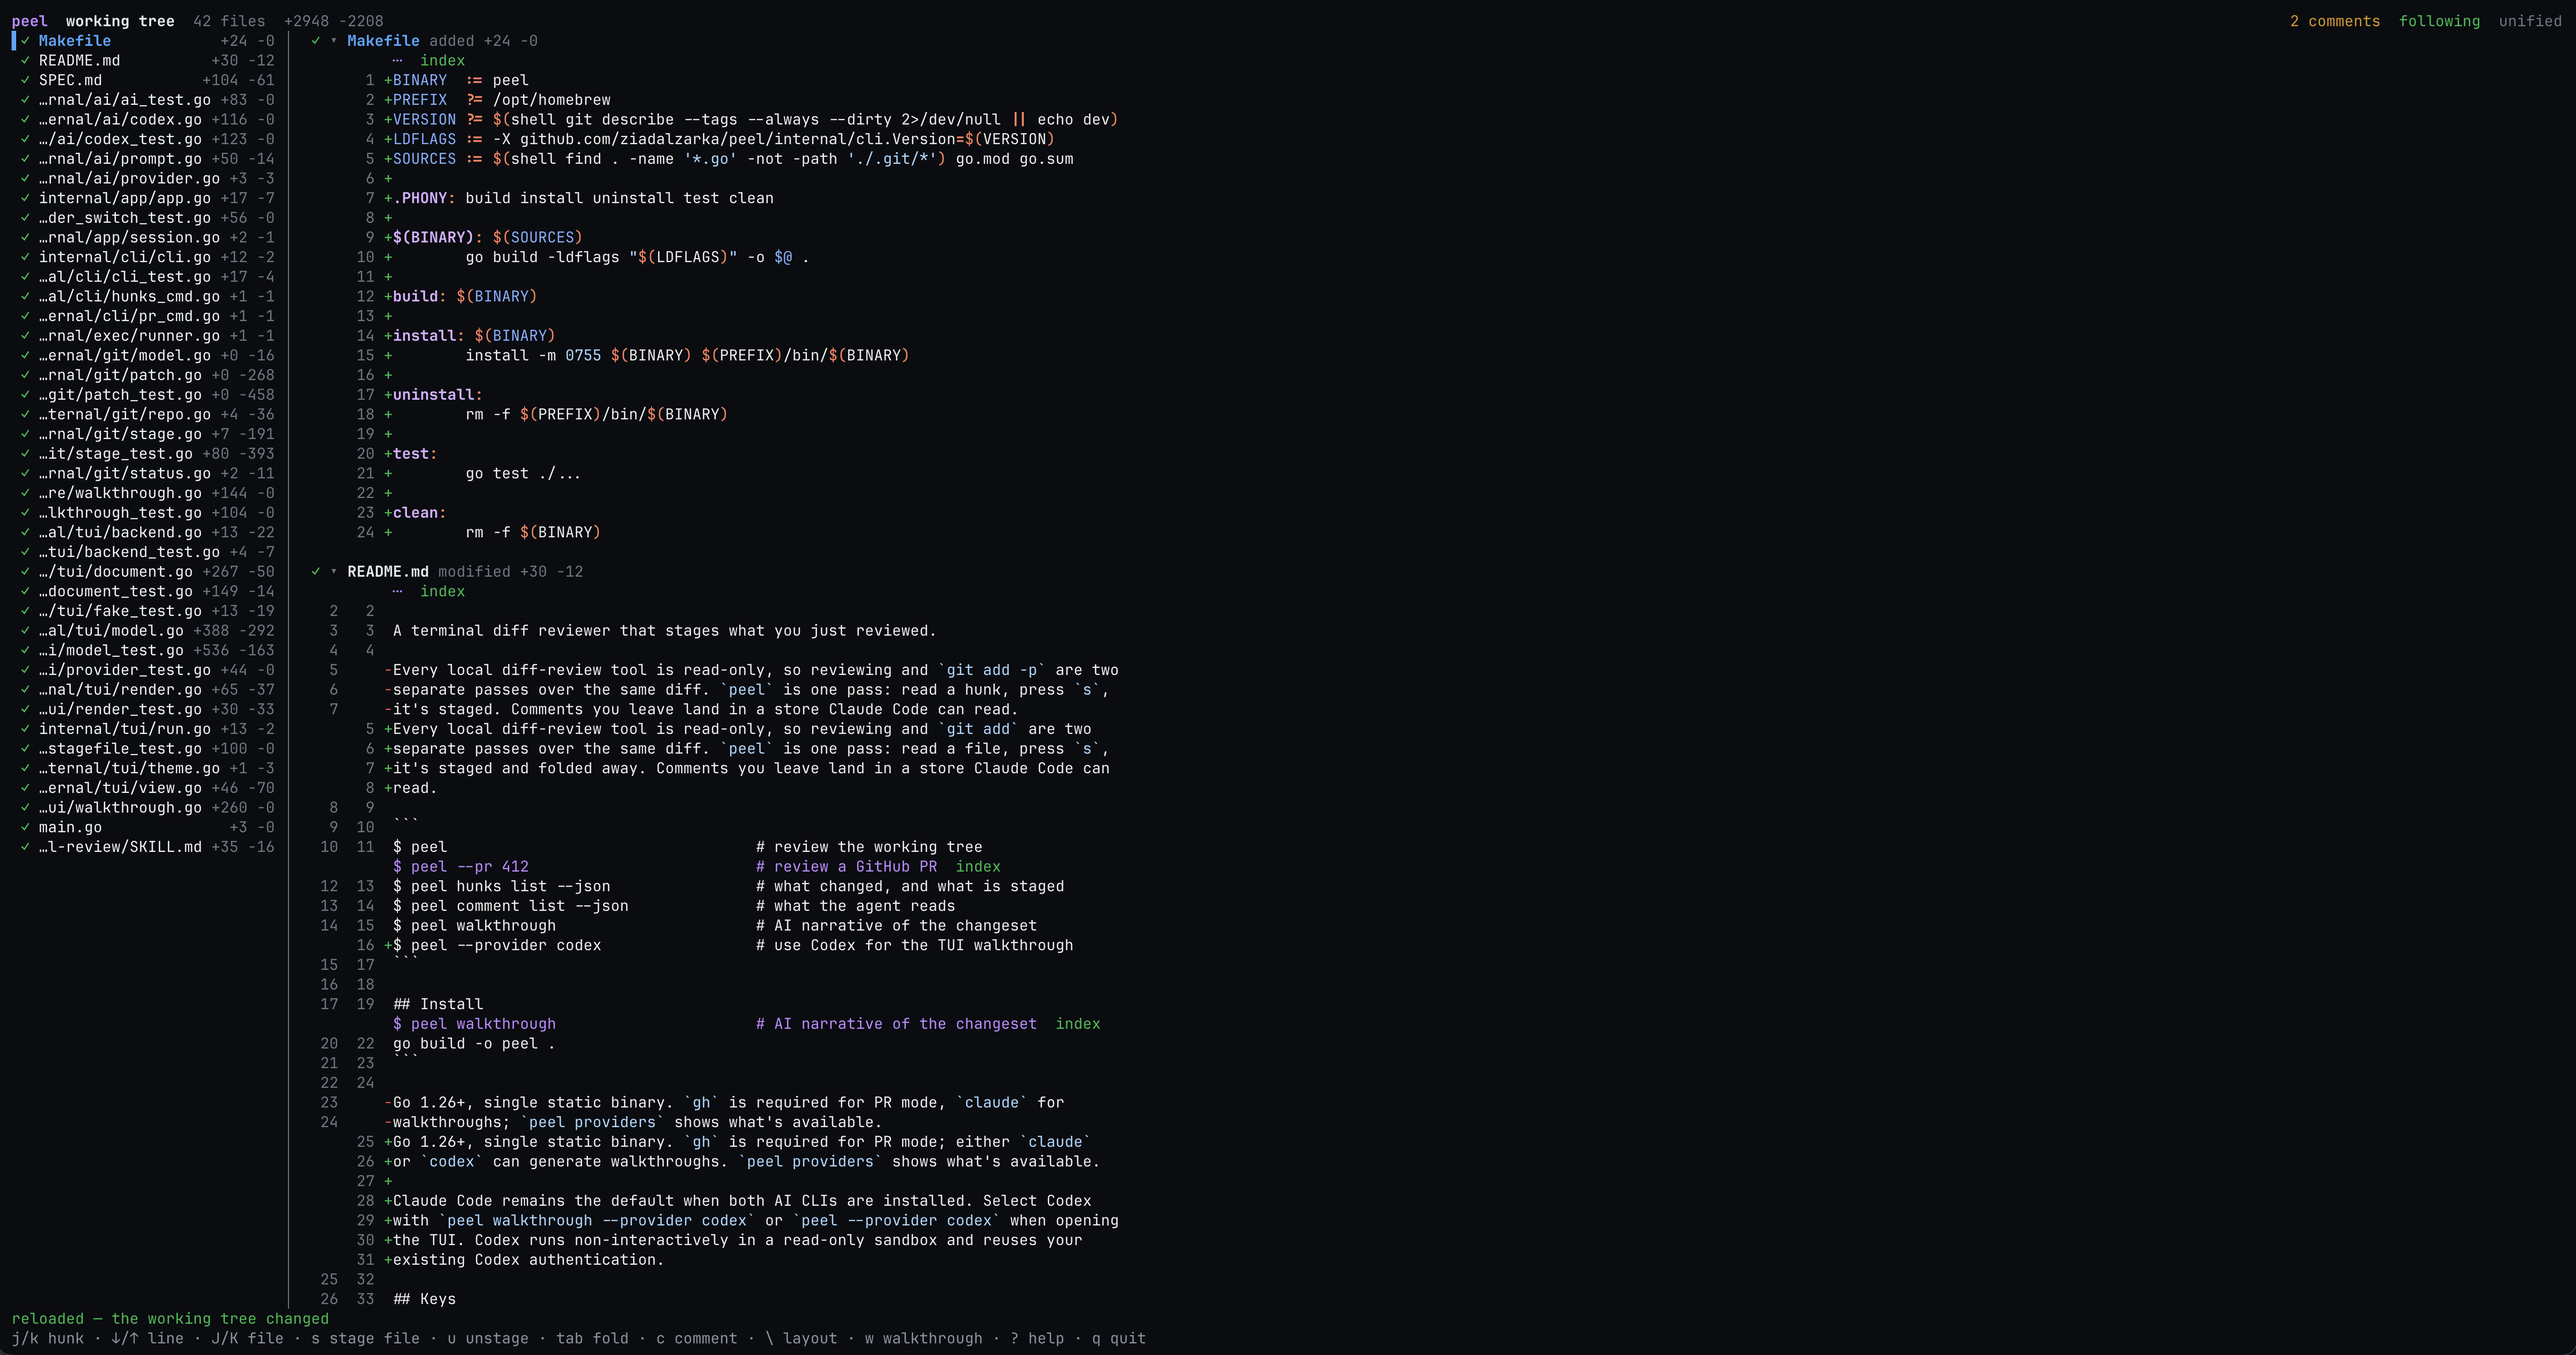
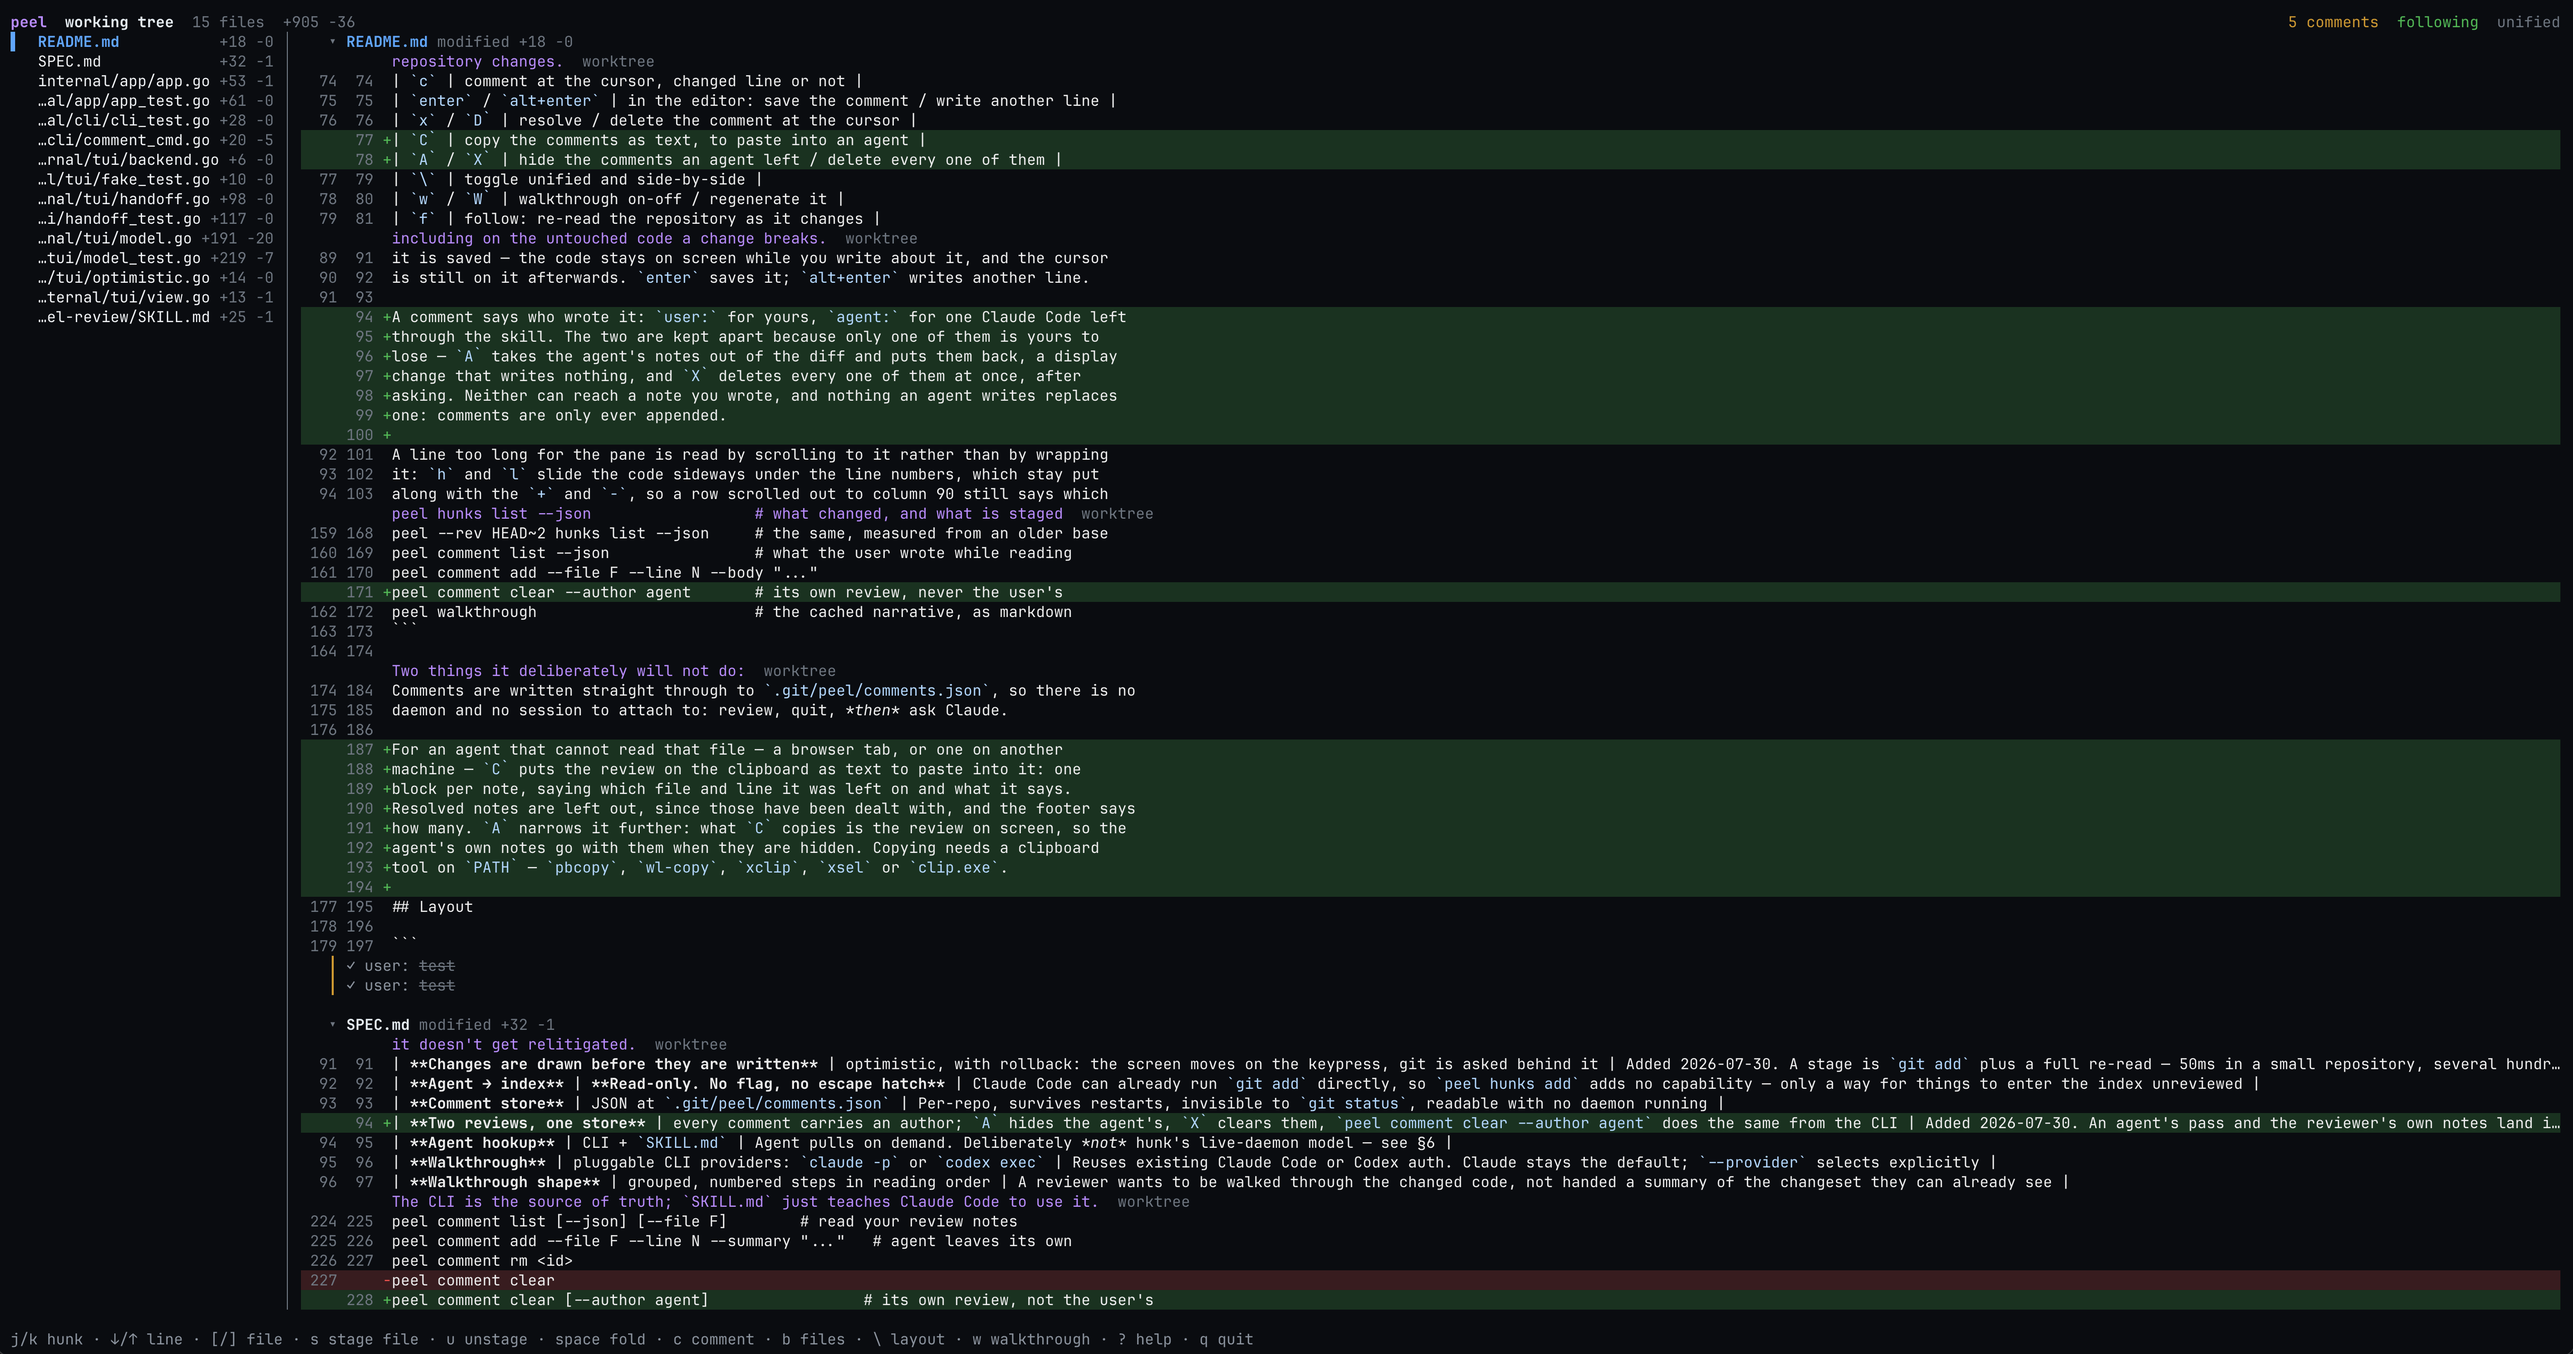
Say what peel does before explaining why
The opening argued its case for three paragraphs before showing a key. It now
leads with what the tool does — staging, inline comments, the agent store, the
walkthrough — and leaves the reasoning to the sections below and to SPEC.md.

The screenshot was stale: its footer still showed J/K for files and tab for
fold. Replaced with a current window, and the inline comment editor now has a
shot of its own next to the paragraph describing it, since drawing the editor
into the diff is hard to picture from prose.

Claude-Session: https://claude.ai/code/session_01DsPEH7vmppLH8gq3eG2zGc

diff --git a/README.md b/README.md
@@ -8,13 +8,26 @@ whole thing again in the terminal, re-deciding what you decided five minutes ago
 
 `peel` is one pass. Read a file, press `s`, and it is staged, folded away, and the
 next file is in front of you — what is left open is what is left to review.
-Comments you leave land in a store Claude Code can read, so "address my review
-comments" needs no copy-paste.
 
 ![peel reviewing its own working tree](docs/screenshots/review.png)
 
 The file list on the left is the review queue and a `✓` marks a staged file. The
 footer is the whole keymap.
+
+- **Staging is the review.** `s` stages a file and moves you to the next one still
+  open, so a pass is `s` after `s`. Whole files only — no patch generation, so
+  nothing here can write the wrong lines into your index.
+- **Comment where the code is.** `c` anywhere — changed line or not — opens the
+  editor inline, in the diff, at the spot the note will sit.
+- **Notes an agent can read.** Comments go to `.git/peel/comments.json`, which
+  Claude Code reads through the bundled skill, so "address my review comments"
+  needs no copy-paste. `C` copies them as text for an agent that cannot.
+- **A walkthrough in the diff.** `w` reorders the diff into the steps an AI
+  narrative reads it in, each explanation above the code it covers.
+- **It keeps up.** Follow mode re-reads the repository as it changes, and the
+  screen moves on the keypress rather than waiting for git.
+- **Read-only bases.** `--rev` reviews further back than HEAD, `--pr` reviews a
+  GitHub pull request.
 
 ## Install
 
@@ -87,9 +100,13 @@ and every line of a diff body, changed or not. Nothing to enter first: `s`
 anywhere inside a file stages that file, `c` anywhere leaves a note there,
 including on the untouched code a change breaks.
 
+### Comments
+
 `c` opens the editor inline, in the diff, exactly where the comment will sit once
 it is saved — the code stays on screen while you write about it, and the cursor
 is still on it afterwards. `enter` saves it; `alt+enter` writes another line.
+
+![writing a comment inline, in the diff](docs/screenshots/comment.png)
 
 A comment says who wrote it: `user:` for yours, `agent:` for one Claude Code left
 through the skill. The two are kept apart because only one of them is yours to
@@ -98,36 +115,31 @@ change that writes nothing, and `X` deletes every one of them at once, after
 asking. Neither can reach a note you wrote, and nothing an agent writes replaces
 one: comments are only ever appended.
 
+### Long lines and the mouse
+
 A line too long for the pane is read by scrolling to it rather than by wrapping
 it: `h` and `l` slide the code sideways under the line numbers, which stay put
-along with the `+` and `-`, so a row scrolled out to column 90 still says which
-line it is and whether it was added. `$` goes out to the end of the longest line
-in the diff and `0` comes back. The header names the column while you are away
-from the first one.
+along with the `+` and `-`. `$` goes out to the end of the longest line and `0`
+comes back; the header names the column while you are away from the first one.
 
-The mouse works too. The wheel scrolls whichever pane it is over and drags the
-cursor along, so the cursor never addresses a row that has left the screen. A
-horizontal wheel — a two-finger swipe, or shift and the wheel — slides the code,
-in terminals that report one: Ghostty, kitty, iTerm2, WezTerm and Alacritty all
-do. Where yours does not, or swallows the swipe for its own scrollback, `h` and
-`l` do the same thing.
+The wheel scrolls whichever pane it is over and drags the cursor along, so the
+cursor never addresses a row that has left the screen. A horizontal wheel — a
+two-finger swipe, or shift and the wheel — slides the code, in terminals that
+report one: Ghostty, kitty, iTerm2, WezTerm and Alacritty all do. Where yours
+does not, `h` and `l` do the same thing.
 
 ### Staging is whole-file
 
 A file is the unit a review decision is actually made in, so that is the unit
-peel stages: `git add` and `git restore --staged`, one path at a time. No patch
-generation, so none of `git add -p`'s failure modes — nothing here can write the
-wrong lines into your index. If you want to split a file, `git add -p` already
-does that well.
+peel stages: `git add` and `git restore --staged`, one path at a time. If you
+want to split a file, `git add -p` already does that well.
 
-Staging collapses the file and moves the cursor to the next file still to review,
-so a pass is `s` after `s` and never a jump back to find where you were. Files
-you have already staged or folded are passed over on the way, since they have
-been dealt with; only when nothing below is still open does the cursor stay on
-what you just staged. The fold
-is display only: `space` reads a staged file back without touching the index, and a
-stage that fails leaves the file open, and the cursor on it, because it still has
-to be dealt with.
+Staging collapses the file and moves the cursor to the next one still to review,
+never back to find where you were. Files already staged or folded are passed over
+on the way, since they have been dealt with; only when nothing below is still
+open does the cursor stay put. The fold is display only: `space` reads a staged
+file back without touching the index, and a stage that fails leaves the file
+open, and the cursor on it, because it still has to be dealt with.
 
 The fold and the move happen on the keypress, before git has been asked anything —
 as does a note appearing in the diff, and a comment resolving. None of it is in
